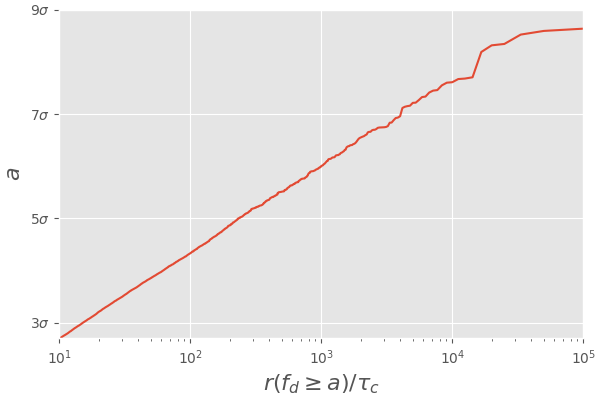
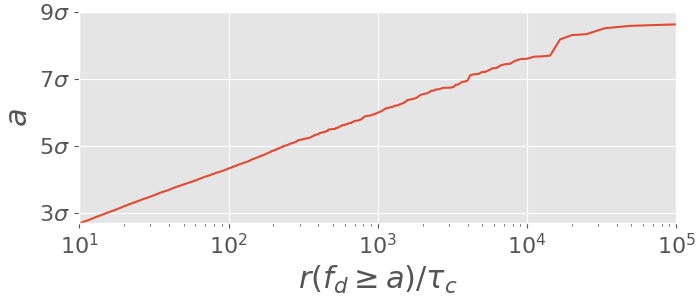
Updates return_time legend and figure

diff --git a/figures/return_time/plot_return_time.py b/figures/return_time/plot_return_time.py
@@ -17,17 +17,19 @@ mu = 0.0252;
 sig = 0.0412;
 avec = (avec-mu)/sig;
 
-fig,ax = plt.subplots(1,1,figsize=(6,4),constrained_layout=True)
+fig,ax = plt.subplots(1,1,figsize=(7,3),constrained_layout=True)
 ax.set_xlim(10, 1e5)
 ax.set_ylim(2.7, 9)
 line, = ax.plot(r, avec)
 ax.set_xscale('log')
 #line.set_linewidth(.7)
 
-ax.set_xlabel(r'$r(f_d \geq a) / \tau_c$',fontsize=16)
-ax.set_ylabel('$a$',fontsize=16)
+ax.set_xlabel(r'$r(f_d \geq a) / \tau_c$',fontsize=22)
+ax.set_ylabel('$a$',fontsize=22)
 ax.set_yticks([3,5,7,9])
 ax.set_yticklabels((r'$3\sigma$',r'$5\sigma$',r'$7\sigma$',r'$9\sigma$'))
+plt.xticks(fontsize=16)
+plt.yticks(fontsize=16)
 
 fname = 'return_time.png'
 plt.savefig(fname)

diff --git a/draft_p2.tex b/draft_p2.tex
@@ -326,7 +326,7 @@ events.
 \begin{figure}
   \centering
   \includegraphics[width=.6\linewidth]{return_time/return_time.png}
-  \caption{Drag fluctuation amplitude as a function the corresponding return time. The return time $r(a)$ is the typical timescale of occurrence of a fluctuation of amplitude larger than $a$.}
+  \caption{Drag fluctuation amplitude as a function the corresponding return time. Here $f_d$ denotes the centered and reduced drag with $f_d=0$ and $\sigma = 1$.}
   \label{fig:return_time_instant}
 \end{figure}
 \subsection{Instantaneous drag}
